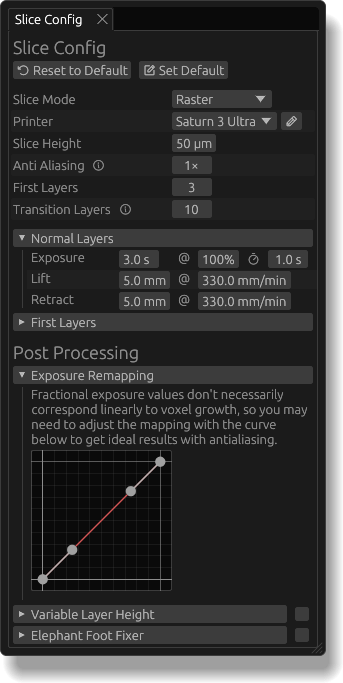
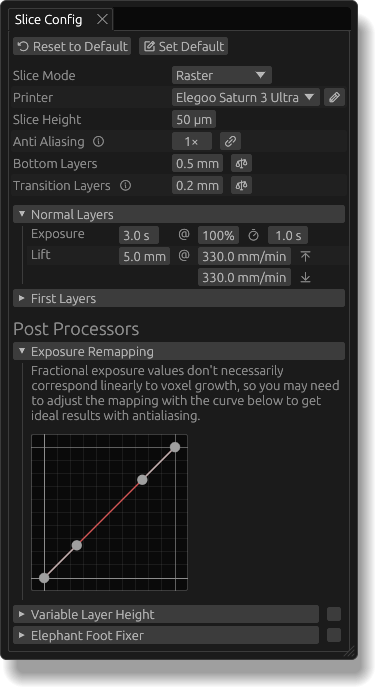
Update getting started guide

Changed region(s): [[0.0292, 0.0, 0.9621, 0.9531]]

diff --git a/content/docs/getting-started/index.md b/content/docs/getting-started/index.md
@@ -4,6 +4,12 @@ description: A brief introduction to mslicer, the open source MSLA resin slicer.
 date: 2026-09-01
 ---
 
+<link
+rel="stylesheet"
+type="text/css"
+href="https://cdn.jsdelivr.net/npm/@phosphor-icons/web@2.1.1/src/regular/style.css"
+/>
+
 Welcome to mslicer!
 I'll try to give a good overview of the program in this document.
 If you run into any bugs or just have feature requests, please don't hesitate to reach out on [Zulip](https://mslicer.zulipchat.com) or create an [issue on GitHub](https://github.com/connorslade/mslicer/issues/new).
@@ -26,7 +32,6 @@ If you run into any bugs or just have feature requests, please don't hesitate to
   - [Slice Config](#slice-config)
   - [Advanced Layout](#advanced-layout)
   - [Custom Presets](#custom-presets)
-  - [Mesh Reconstruction](#mesh-reconstruction)
   - [Spacenav](#spacenav)
 
 </details>
@@ -68,8 +73,6 @@ If the build volume is not correct you will get inaccurate printed dimensions, a
 
 If you have a 3Dconnexion device and want to get that working in mslicer, see [Spacenav](#spacenav).
 
-<!-- TODO: MENTION MODES -->
-
 ## Models
 
 mslicer can load `.stl` and `.obj` meshes.
@@ -78,14 +81,27 @@ Not all meshes are created equal, though; some (especially those downloaded from
 If you encounter this issue or see the 'Defective Mesh' [warning](#model-warnings), see [Defective Meshes](/docs/defective-meshes).
 For now, you can also load the built-in test model (the [Utah Teapot](https://en.wikipedia.org/wiki/Utah_teapot)) by pressing `Ctrl+T` or `⌘+T` on Mac.
 
-To move around the viewport, scroll to move towards or away from the target point, drag with left click to orbit the target point, and drag with right click to translate the target point.
-You can also switch between the default perspective camera and an orthographic camera in the workspace panel.
-
 Each model in your project is listed in the `Models` panel.
 By clicking a model in the 3D view or the Models panel, you can access all its properties, including size, position, and rotation, as well as run actions like deleting the model or aligning it to the bed (see [Model Properties](#model-properties) for a complete description).
-The recommended way to position multiple models in a workspace is with 'Auto Layout', either quick layout, `Ctrl+L` (`⌘+L` on Mac) or with the [Advanced Layout](#) tool. <!-- TODO -->
+The recommended way to position multiple models in a workspace is with 'Auto Layout', either quick layout, `Ctrl+L` (`⌘+L` on Mac) or with the [Advanced Layout](#advanced-layout) tool. <!-- TODO -->
 
 Since mslicer's automatic and manual support placement features are still under development and not usable for most models, use the method described in the [Support Placement](/docs/support-placement) page.
+
+## Viewport
+
+To move around the viewport, scroll to move towards or away from the target point, drag with left click to orbit the target point, and drag with right click to translate the target point.
+You can also switch between the default perspective camera and an orthographic camera in the 'Camera' dropdown of the `Workspace` panel.
+
+There are three viewport modes, selectable with the buttons on the top left.
+Additionally, there is a fourth button (<i class="ph ph-info"></i>) that lets you toggle the hover overlay and select how much information to show (regular vs detailed).
+
+- <i class="ph ph-cursor-click"></i> **Cursor** &mdash; Selects a model, particularly useful with keyboard shortcuts like Delete (D), Duplicate (C), Hide (H), etc.
+- <i class="ph ph-line-segment"></i> **Support** &mdash; Used for manually adding or selecting supports. (Remember supports are still in development!)
+- <i class="ph ph-triangle"></i> **Orient** &mdash; The model will be transformed so that the face you click is made parallel to the build plate (facing down).
+  This makes orienting models much easier, removing the need to manually edit the rotation angles.
+
+The modes can be switched by clicking the buttons or with the keyboard shortcuts 1 for Cursor, 2 for Support, and 3 for Orient.
+Note that you can hold shift while clicking to add to your selection or hold Shift while drag-clicking to select multiple models or supports (depending on the mode) in some area on the screen.
 
 ## Slicing
 
@@ -103,11 +119,11 @@ You can drag to pan, scroll to zoom, and scrub through the slider on the left to
 The top bar of this panel lets you save to a `.goo`, `.ctb`, or `.nanodlp` file, send to a printer wirelessly (see [Remote Print](#remote-print)), detect islands, or reconstruct a mesh.
 Islands are clusters of voxels that are not supported from below and can't be printed properly.
 After detecting islands, look for any red layers on the left slider and red voxels within those layers.
-[Mesh reconstruction](#mesh-reconstruction) is intended for re-slicing a model if you only have a sliced file and don't have the original mesh.
+[Mesh reconstruction](/docs/mesh-reconstruction) is intended for re-slicing a model if you only have a sliced file and don't have the original mesh.
 
 The sidebar exposes tools for modifying and analyzing sliced files generated in mslicer or loaded from disk (`File › Load Sliced`, `Ctrl+Shift+I`, or `⌘+Shift+I` on Mac):
 
-- **Preview Image** &mdash; Allows generating a new image from whatever is currently visible in the 3D workspace, replacing the image with one from disk, or overlaying custom text.
+- **Preview Image** &mdash; You can customize the generated preview image that gets embedded in the sliced just by clicking and dragging on the image to reposition the camera.
 - **Slice Preview** &mdash; Configuration for the slice preview itself.
   Many resin printers have rectangular (non-square) LCD pixels, which means if the preview uses square pixels (Screen Space) the image will appear stretched.
   The view direction lets you flip the slice preview to see how it would look on either the LCD screen or the build plate after flipping it upright.
@@ -120,12 +136,10 @@ The sidebar exposes tools for modifying and analyzing sliced files generated in 
   The mass and cost are calculated from the estimated volume and the provided constants: resin density and unit cost.
 - **Layer Properties** &mdash; Shows the height (Z-position), run count, and memory usage of the currently previewed layer.
 - **File Properties** &mdash; Shows the default slice height (ignoring layers with variable layer height) as well as the size and resolution of the printer it was sliced for.
+- **Surface Area** &mdash; You can view a plot of the surface area of your sliced file.
+  This can be useful as large surface areas or big decreases in surface area can indicate that a lot of force will be required to lift the build plate and print failure could occur.
 - **Defects** &mdash; Defective meshes can cause slicing defects, but won't always.
   If you have sliced a defective mesh and it results in slice defects, you can see which layers were affected here.
-
-<!--- **File Analysis** &mdash; You can view a plot of the surface area of your sliced file.
-  This can be useful as large surface areas or big decreases in surface area can indicate that a lot of force will be required to lift the build plate and print failure could occur.
-  I plan to add some more analysis types here in the future.-->
 
 ## Remote Print
 
@@ -176,12 +190,17 @@ In the 'Model' panel there are actions, properties, and some mesh statistics. St
   There is also a tool, `Tools › Collect Instances`, that creates new collections grouping all instances of the same mesh.
 - **Collect** &mdash; Creates a new collection (group of models) with the currently selected model.
 - **Align to Bed** &mdash; Changes the model's Z position so that its lowest point rests on the build plate.
-- **Split Bodies** &mdash; Some meshes contain multiple shells/components; this action separates them into their own models.
 - **Replace** &mdash; Lets you select a new mesh from the filesystem to replace the active model without resetting any model properties.
 - **Reload** &mdash; If you loaded a model in the current session, you will also be able to replace it with a new version of the file you loaded. This is useful when iterating on a design. (Not in screenshot)
-
+- **Mesh** submenu
+  - **Split Bodies** &mdash; Some meshes contain multiple shells/components; this action separates them into their own models.
+  - **Flip Winding Order** &mdash; Flips the winding order of every face in the mesh.
+    Good for meshes with a consistent but flipped face windings, if its not consistent, try the mesh repair.
+  - **Repair** &mdash; Runs the built-in basic mesh repair tool.
+  - **Export** &mdash; Lets you export a mesh as `.stl` or `.obj`.
+    Useful if you have created a mesh within mslicer with one of the generator tools.
 </div>
-<img src="/docs/getting-started/models.png" />
+<img src="/docs/getting-started/models.png" style="max-width: 396px;" />
 </div>
 
 If you select multiple models at the same time by shift-clicking them in either the 3D view or the `Model` panel, the delete, collect, and duplicate actions will still be available.
@@ -197,15 +216,21 @@ In the case that two models with different exposure values overlap, the higher e
 
 Faces is the number of triangles that make up the mesh, and volume is the volume of the mesh considering any scale factor you apply.
 
+
 ### Model Warnings
 
-Mesh warnings appear as a small warning icon by the model name in the `Models` panel.
+<div class="row">
+<div>
+
+Mesh warnings appear as a small warning icon (<i class="ph ph-warning"></i>) by the model name in the `Models` panel.
 There are currently two warnings.
 
-<img src="/docs/getting-started/model-warnings.png" style="width: inherit; max-width: 100%; border-radius: 0;" />
-
-- **Non Manifold Meshes** &mdash; The mesh is invalid and may produce unexpected results when slicing. See the [Models](#models) section for more details.
+- **Defective Mesh** &mdash; The mesh is invalid and may produce unexpected results when slicing. See [Defective Meshes](/docs/defective-meshes) for more details.
 - **Out of Bounds** &mdash; The model extends beyond the printer's build volume and will be cut off.
+
+</div>
+<img src="/docs/getting-started/model-warnings.png" />
+</div>
 
 ### Slice Config
 
@@ -216,14 +241,16 @@ You can set a global default slice config and reset to it at any point with the 
 Note that your slice config is saved to mslicer projects.
 
 - **Slice Mode** &mdash; mslicer can output slices either as raster layers for MSLA printers or vectors that (for example) can be used with a craft cutter (niche use case but I've made some cool things with it).
-- **Printer** &mdash; Defines the build volume and LCD resolution for your printer.
+- **Printer** &mdash; Defines the build volume and LCD resolution for your printer, with a preset or custom values.
 - **Slice Height** &mdash; The height of each slice. Note that the slice will be taken at the center of each layer.
 - **Anti Aliasing** &mdash; Uses grayscale values that more accurately represent the actual model geometry.
   The value of this setting is the number of effective samples that get averaged per voxel.
-  Unlike other slicers, this is calculated in 3D, which helps reduce the visibility of steps between layers.
+  Click the link button (<i class="ph ph-link-simple"></i>) to individually configure XY and Z anti-aliasing.
 - **First Layers** &mdash; For improved build plate adhesion, it is common to have much higher exposures for the first few layers.
   This setting controls how many layers use the 'First Layers' exposure config.
 - **Transition Layers** &mdash; To get a more even look, you can add some number of layers after the 'First Layers' that interpolate the exposure to its normal setting.
+
+The layer counts are set with a distance by default, click the <i class="ph ph-scales"></i> button to switch to a raw layer count.
 
 The 'Normal Layers' and 'First Layer' exposure configurations have the same properties:
 
@@ -276,24 +303,15 @@ Open the preset edit window with the pencil icon next to the printer setting in 
 
 Here you can create new presets, delete them, change their names, and, of course, configure their build volume and resolution.
 
-### Mesh Reconstruction
-
-<div class="row">
-<div>
-
-If you happen to have a sliced file and you want to convert it back to a mesh to re-slice or something, you're in luck!
-After loading a sliced file (or slicing something) you can press the 'Reconstruct Mesh' button in the `Sliced` panel, select a resolution (coarse, fine, or exact), and get the reconstructed mesh loaded into your project.
-
-The image is the Stanford dragon recreated from a sliced file at coarse fidelity.
-It looks pretty good for being downsampled so much (20× at coarse), but you can see some artifacts, especially in areas with lower curvature.
-Do note that since every voxel can create multiple triangles in the reconstructed mesh, the poly count will be enormous even at lower fidelity. This example resulted in over 3.3M faces.
-
-</div>
-<img src="/docs/getting-started/reconstructed-mesh.png" style="max-width: 431px;" />
-</div>
-
 ### Spacenav
 
 mslicer supports controlling the camera (and running some predefined shortcuts) with a 3Dconnexion device.
 This is currently only supported on Linux through the [Spacenav](https://spacenav.sourceforge.net/) library.
 To get it working, install the driver, start mslicer, and you should see 'Connected to Spacenav.' in the 'Spacenav' menu in the `Workspace` panel.
+
+<style>
+    i.ph {
+        position: relative;
+        top: 2px;
+    }
+</style>

diff --git a/content/docs/defective-meshes/index.md b/content/docs/defective-meshes/index.md
@@ -22,8 +22,14 @@ If the defective region is small (sometimes infinitesimally)[^3] the mesh may be
 ## Example
 
 Consider this simple example mesh, I've highlighted two faces in red and green.
-Currently the mesh is not defective, but if the red or green face were to be deleted from the mesh there would be a hole.
-So... lets see what would happen if you were to slice this mesh with either face removed.
+Currently the mesh is not defective and will slice perfectly fine, but if the red or green face were to be deleted from the mesh there would be a hole.
+So... lets see what would happen if you were to slice this mesh with each highlighted face removed.
+
+Note that removing either face will trigger the defective mesh warning.
+
+</div>
+<img src="/docs/defective-meshes/example-mesh.png" style="max-width: 250px;" />
+</div>
 
 ### Missing Green Face
 
@@ -32,11 +38,7 @@ Looking at the slice preview, (as the popup warns) the last 40 layers have a sli
 
 <div class="row" style="gap: 10px;">
 <img src="/docs/defective-meshes/green-sliced.png" />
-<img src="/docs/defective-meshes/green-warning.png" style="width: initial; max-width: 100%;" />
-</div>
-
-</div>
-<img src="/docs/defective-meshes/example-mesh.png" style="max-width: 300px;" />
+<img src="/docs/defective-meshes/green-warning.png" />
 </div>
 
 ### Missing Red Face
@@ -75,7 +77,7 @@ I have generally had better luck with the paid tools (they have free trials), bu
 > It finds the intersection of your models with the slicing plane, which returns a 2D polygon.
 > It then matches up the volume entry and exit points for each scan line (pixel Y coordinate) and emits runs of pixel values between them.
 
-[^2]: Winding Order (rendered gray)
+[^2]: Winding Order
 
 > Mesh faces are just lists of three points in 3D space.
 > In order to know if some point is inside a mesh in the case of self-intersecting meshes, the 'ray cast' returns the facing direction of the face it hit.

diff --git a/content/docs/_index.md b/content/docs/_index.md
@@ -11,15 +11,20 @@ description: mslicer documentation pages.
 - [Printer Compatibility](printer-compatibility) &mdash; Printers that are known to work with mslicer
 - [Support Placement](support-placement) &mdash; Recommended method for adding supports to models before printing
 - [Defective Meshes](defective-meshes) &mdash; What to do if you get the defective mesh warning
+- [Mesh Reconstruction](mesh-reconstruction) &mdash; Converting a sliced file back into a mesh
+- [msla Format Icons (Linux)](msla-thumbs) &mdash; KDE plugin for slided MSLA file icons
+
+## Projects
+
 - [PCB Photolighography](pcb-photolighography) &mdash; Exposing photoresist and soldermask with a MSLA printer **(NEW!)**
 - [3D Printing Phonograph Records](phonograph-record) &mdash; Using the power of modern technology to make really bad phonograph records
-- [msla Format Icons (Linux)](msla-thumbs) &mdash; KDE plugin for slided MSLA file icons
 
 ## Miscellaneous
 
 <!--- [Features](features) &mdash; Overview of mslicer's more interesting features-->
 - [Release Notes](release-notes) &mdash; Overview of the biggest changes in a release **(NEW!)**
 - [Benchmark](benchmark) &mdash; Speed comparison with other slicers
+<!--- [Glossary](glossary) &mdash; Explanations on some terms commonly used in the docs-->
 - [Changelog](changelog) &mdash; Changelogs for the stable releases
 - [History](history) &mdash; Why I started this project
 

diff --git a/content/docs/mesh-reconstruction/index.md b/content/docs/mesh-reconstruction/index.md
@@ -1,0 +1,21 @@
+---
+title: Mesh Reconstruction
+description: Converting a sliced file back into a mesh for export or re-slicing
+date: 2026-10-21
+---
+
+<div class="row">
+<div>
+
+If you happen to have a sliced file and you want to convert it back to a mesh to re-slice or something, you're in luck!
+After loading a sliced file (or slicing something) you can press the 'Reconstruct Mesh' button in the `Sliced` panel, select a resolution, and get the reconstructed mesh loaded into your project.
+
+The image is the Stanford dragon recreated from a sliced file at coarse fidelity using marching cubes.
+It looks pretty good for being downsampled so much (20×), but you can see some artifacts, especially in areas with lower curvature.
+Do note that since every voxel can create multiple triangles in the reconstructed mesh, the poly count will be enormous even at lower fidelity. This example resulted in over 3.3M faces.
+
+Greedy meshing is a lot faster and results in less faces, but it will not always create manifold meshes.
+
+</div>
+<img src="/docs/mesh-reconstruction/reconstructed-mesh.png" style="max-width: 431px;" />
+</div>

diff --git a/content/docs/changelog.md b/content/docs/changelog.md
@@ -9,7 +9,7 @@ See [Release Notes](/docs/release-notes) for more in-depth and visual explanatio
 You can view or download previous releases [on Github](https://github.com/connorslade/mslicer/releases).
 I try to make a release approximately monthly when I'm working on the project!
 
-## v0.10.0 &mdash; Coming Soon!!!
+## v0.10.0 &mdash; October 21st, 2026
 
 - Merge lift and retract distance settings.
   In practice they should always be the same and the setting was only supported by `.goo`

diff --git a/content/docs/glossary.md b/content/docs/glossary.md
@@ -1,0 +1,21 @@
+---
+title: Glossary
+description: todo
+date: 2026-10-21
+hidden: true
+---
+
+## Mesh
+
+A triangle mesh is defined a list of vertices and a list of faces.
+The vertices are just points in 3D space, and the faces each reference three of those points, defining a triangle.
+
+### Winding Order
+
+In order to define which side of each face is inside or outside the model...
+
+### Shells
+
+## Miscellaneous
+
+## Run Length Encoding
